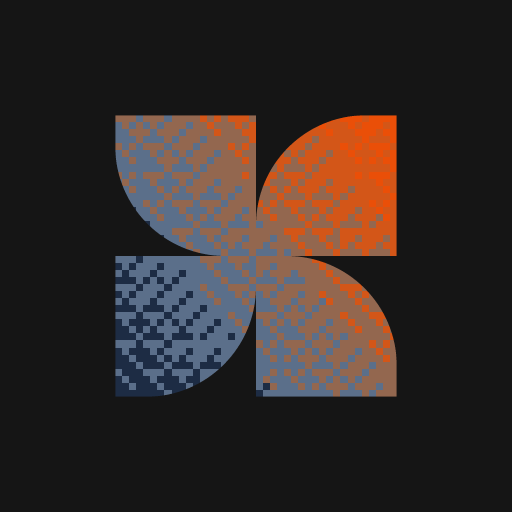
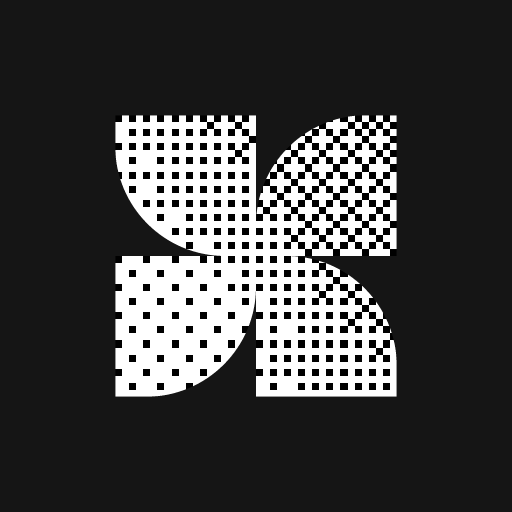
Use monochrome dither and serve the Assets shelf metadata

Changed region(s): [[0.2188, 0.2188, 0.7812, 0.7812]]

diff --git a/server/src/index.ts b/server/src/index.ts
@@ -39,14 +39,16 @@ app.use('/api', libraryRouter)
  * and the session cookie share one origin and no CORS rule is needed.
  */
 if (existsSync(clientDist)) {
-  app.use(express.static(clientDist, { extensions: ['html'] }))
+  app.use(express.static(clientDist, { redirect: false }))
   app.get('/{*splat}', (request, response, next) => {
     if (request.path.startsWith('/api/')) {
       next()
       return
     }
-    const shell = request.path.startsWith('/moodboards/') ? 'moodboards.html' : 'index.html'
-    response.sendFile(path.join(clientDist, shell))
+    // A shelf URL can also name an asset directory, as /assets does.
+    const route = /^\/([a-z-]+)\/?$/i.exec(request.path)?.[1]?.toLowerCase()
+    const shell = request.path.startsWith('/moodboards/') ? 'moodboards.html' : route && route + '.html'
+    response.sendFile(shell && existsSync(path.join(clientDist, shell)) ? shell : 'index.html', { root: clientDist })
   })
 }
 

diff --git a/client/src/components/brand/brand-mark.module.css b/client/src/components/brand/brand-mark.module.css
@@ -8,6 +8,12 @@
   mask: url('/brand/reference-mark.svg') center / 20px 20px no-repeat;
 }
 
+@media (forced-colors: none) {
+  :global(.dark) .mark {
+    filter: invert(1);
+  }
+}
+
 @media (forced-colors: active) {
   .mark {
     forced-color-adjust: none;
